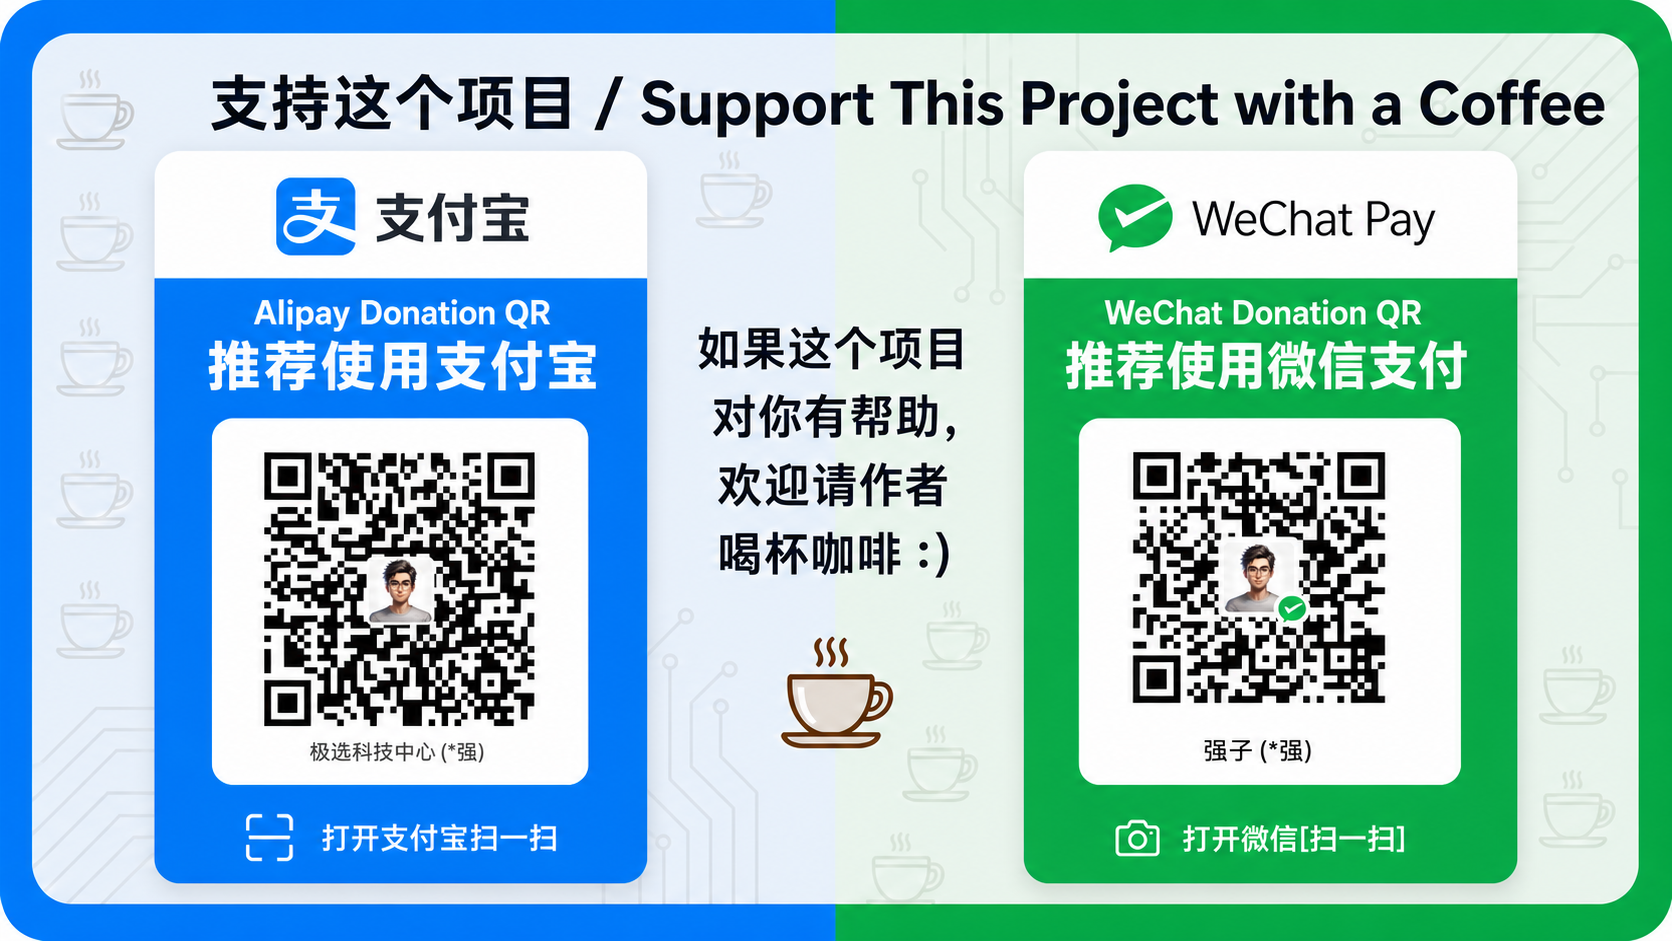
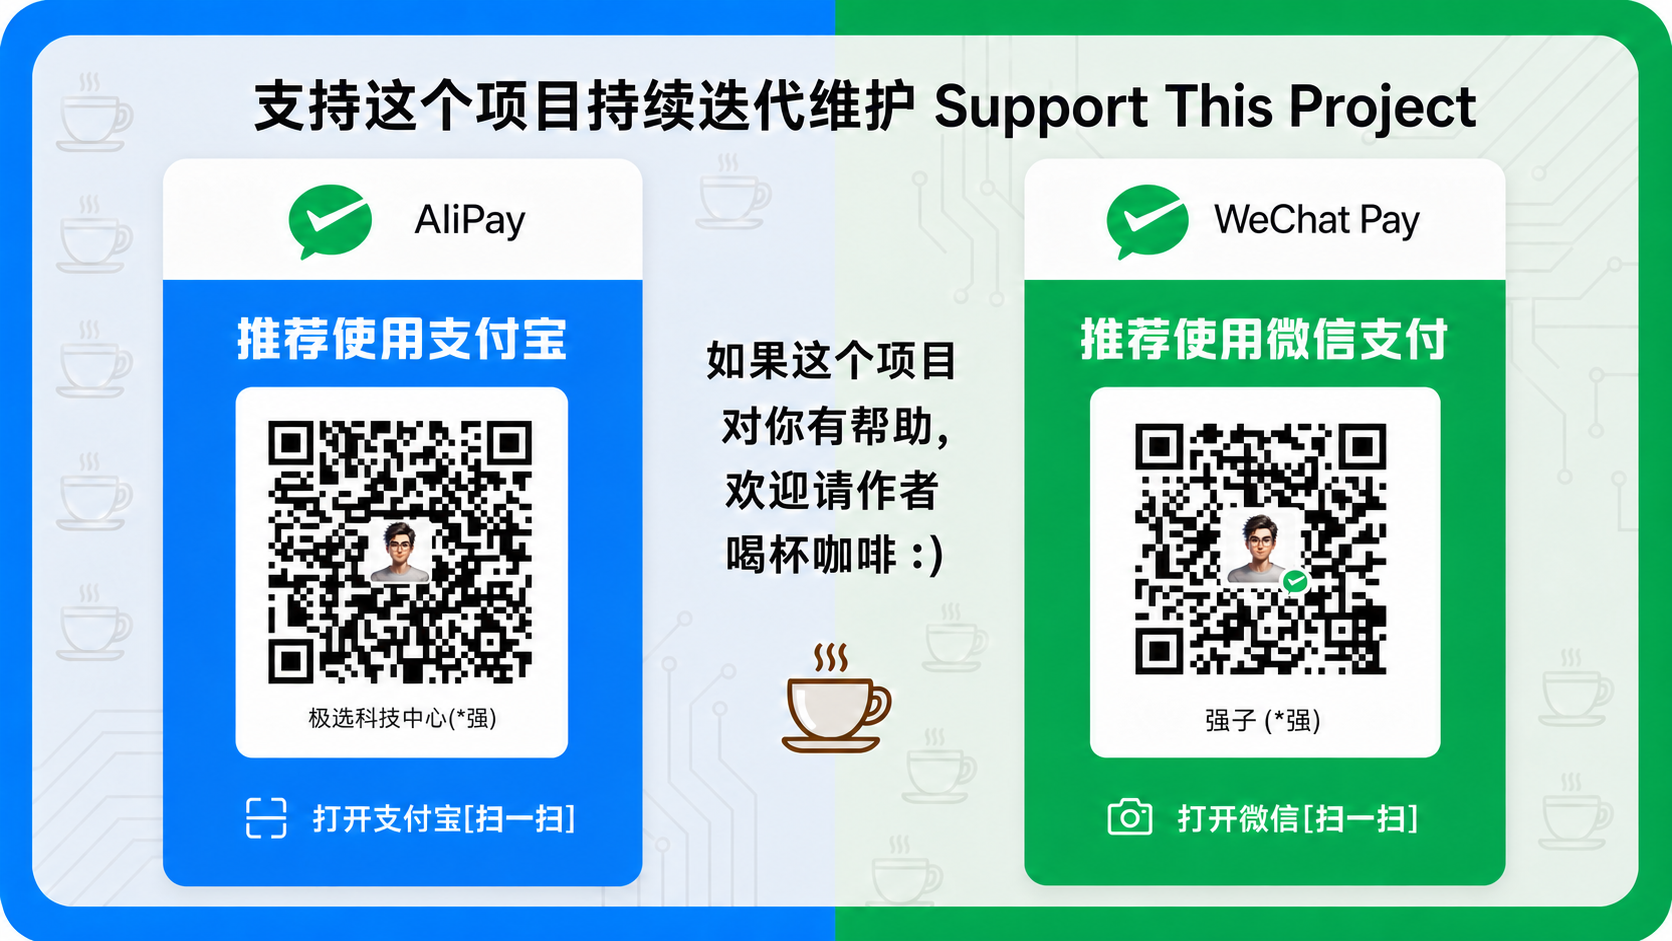
docs: README 注意事项收敛 + 打赏码升级为支付宝/微信双码合一
- README.md「注意事项」从 6 条精简到 5 条：去掉"勿把 API Key 写入代码/文档上传 GitHub"那条历史警示，避免给新用户带来不必要的焦虑（防御规则本身仍保留在 .gitignore）
- docs/readme_img/Payment_QR_code.png 换成支付宝 + 微信双码合一版本（更适合作为 README 末尾的"请作者喝杯咖啡"区块）
- OPC-X-Reply-Extension.zip 同步重打

diff --git a/README.md b/README.md
@@ -253,11 +253,10 @@ pwsh pack.ps1       # Windows PowerShell
 ## 注意事项
 
 1. **插件永不自动发布内容**，所有生成结果都需人工最终确认。
-2. **请勿把 API Key 写入代码或文档并上传到 GitHub**——本仓库 `.gitignore` 已加防御性规则排除 `*.env` / `*.key` / `*credentials*` / `*api_key*` 等模式，并永久排除 `docs/开发及迭代方案调研报告/` 子目录。
-3. API Key 仅保存在浏览器扩展本地存储 `chrome.storage.local`；生成回复时推文内容会发送到你配置的 LLM 服务。
-4. 如果 X 页面 DOM 结构更新，按钮位置和填入逻辑可能需要后续适配。
-5. 如果接口返回 HTML / 非 JSON，**先检查 Base URL 是否填成首页 / 控制台地址**，再检查接口类型与模型。
-6. `额外提示词` 字段只作为风格参考——插件硬性保留"3 条候选 / JSON 数组 / 不带前缀"这三件事不被覆盖。
+2. 插件设置信息，如 API Key 等字段信息仅保存在浏览器扩展本地存储 `chrome.storage.local`；生成回复时推文内容会发送到你配置的 LLM 服务。
+3. 如果 X 页面 DOM 结构更新，按钮位置和填入逻辑可能需要后续适配。
+4. 如果接口返回 HTML / 非 JSON，**先检查 Base URL 是否填成首页 / 控制台地址**，再检查接口类型与模型。
+5. `额外提示词` 字段只作为风格参考——插件硬性保留"3 条候选 / JSON 数组 / 不带前缀"这三件事不被覆盖。
 
 ---
 
